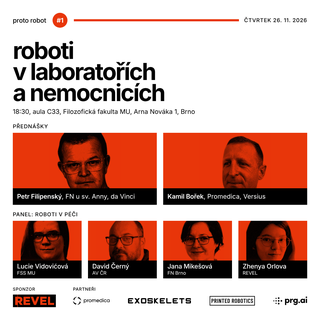
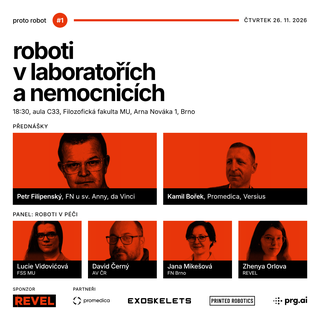
#1: loose site window (whole head, air above) for all but Filipenský and Černý whose sources start at the crown
Claude-Session: https://claude.ai/code/session_01UCnr32FKNaKDppzBLak19a

diff --git a/tools/pages/cutouts_1.py b/tools/pages/cutouts_1.py
@@ -26,7 +26,8 @@ OUT = ROOT / 'brand/speakers-1'; OUT.mkdir(exist_ok=True)
 SITE = ROOT / 'img/1'
 W = H = 600
 CARD_FACE, CARD_EYE = 0.44, 0.40      # covers: face-box height / eye line as a fraction of the 600 card
-SITE_FACE, SITE_EYE = 1 / 1.5, 0.45   # site: window side = 1.5 face heights, eyes at 45% (Filipensky source native ratio)
+SITE_FACE, SITE_EYE = 1 / 2.1, 0.42   # site: window side = 2.1 face heights, eyes at 42%: whole head with hair and air above
+SITE_TIGHT = {'filipensky': (1 / 1.5, 0.45), 'cerny': (1 / 1.55, 0.44)}   # sources start at the crown; a loose window would only upscale them
 EYE_IN_BOX = 0.42                     # eye line inside the haar box
 ORANGE = np.array([232, 54, 10], np.float32)
 SEED = 7
@@ -107,15 +108,21 @@ for k, path in SRC.items():
     Image.fromarray(outp.astype(np.uint8)).save(OUT / f'{k}.png')
 
     # --- site: window 1.5 face heights, eyes at 44%, never outside the source frame (12px pad excluded)
-    s = SITE_FACE * H / fh
+    sf, se = SITE_TIGHT.get(k, (SITE_FACE, SITE_EYE))
+    s = sf * H / fh
     top_room, bot_room = (ey - 12) * s, (sh + 12 - ey) * s          # source px above / below the eye line, scaled
-    need_top, need_bot = SITE_EYE * H, (1 - SITE_EYE) * H
-    s *= max(1.0, need_top / top_room, need_bot / bot_room)          # grow the face a little rather than show the frame
+    need_top, need_bot = se * H, (1 - se) * H
+    s *= max(1.0, need_top / top_room)                               # never show the top frame edge
+    short_bot = need_bot / bot_room > 1.0                            # source ends above the window bottom (chest cut)
     left_room, right_room = (cx - 12) * s, (sw + 12 - cx) * s
     nudge = max(0.0, W / 2 - left_room) - max(0.0, W / 2 - right_room)   # shift the window sideways if a side is short
     Lim = L8.copy(); Lim.putalpha(Image.fromarray((an * 255).astype(np.uint8)))
-    Ls, As = place(Lim, s, cx - nudge / s, ey, SITE_EYE * H)
+    Ls, As = place(Lim, s, cx - nudge / s, ey, se * H)
     Ls = finish(Ls, lv)
+    if short_bot:                                                    # melt the last 8% of the torso into the field instead of a hard line
+        yb = int(SITE_EYE * H + bot_room) if k not in SITE_TIGHT else int(se * H + bot_room)
+        ramp = np.ones(H, np.float32); y0 = max(0, yb - int(0.08 * H)); ramp[y0:yb] = np.linspace(1, 0, yb - y0); ramp[yb:] = 0
+        As = As * ramp[:, None]
     site = Image.fromarray(((Ls * As + 1.0 * (1 - As)) * 255).astype(np.uint8)).convert('RGB')
     site.save(SITE / f'sp-{k}.webp', 'WEBP', quality=84)
     print(f'{k:11s} face {int(fh)}  lo/mid/hi {lo:.2f} {mid:.2f} {hi:.2f}  site scale x{s * fh / H / SITE_FACE:.3f} nudge {nudge:+.0f}px  body {body_mean:.2f} lift {lift:.2f}')
